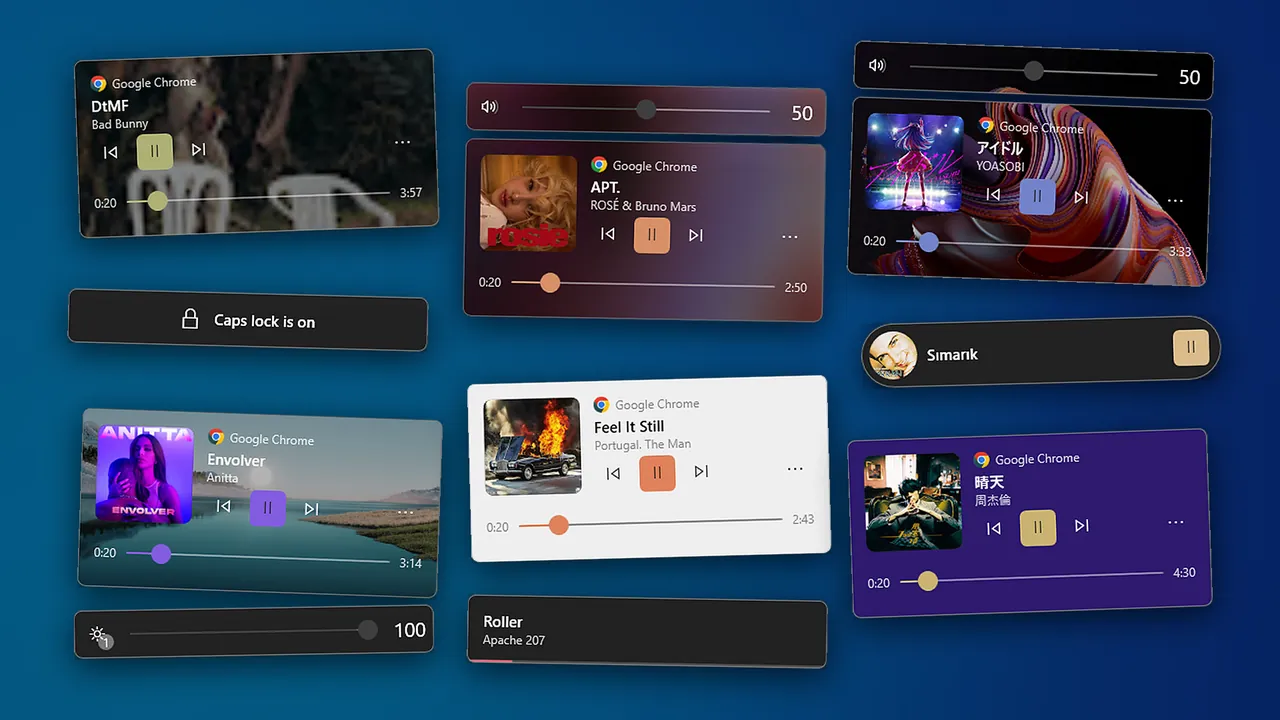
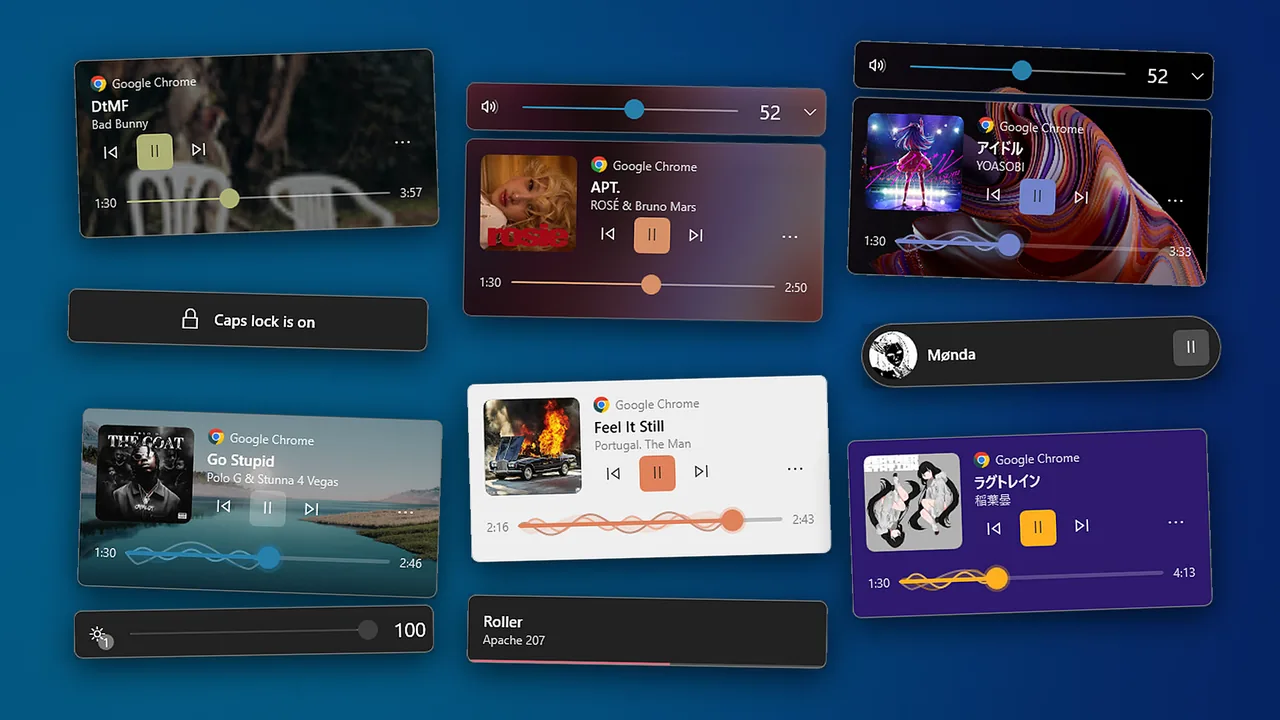
0.13

diff --git a/index.html b/index.html
@@ -47,6 +47,8 @@
           "acceptedAnswer": { "@type": "Answer", "text": "Flylet is a maintained continuation of ModernFlyouts, which was archived in 2025. It works on Windows 11 again and on Windows 10 22H2, with credit to the original ModernFlyouts authors." } },
         { "@type": "Question", "name": "Can I put my own picture behind the volume pop-up?",
           "acceptedAnswer": { "@type": "Answer", "text": "Yes. Use any photo or animated GIF, adjust it to fit, and add blur or darkening so the text stays readable." } },
+        { "@type": "Question", "name": "Can I change the volume of each app?",
+          "acceptedAnswer": { "@type": "Answer", "text": "Yes. An arrow on the volume row opens a slider for every app that's playing sound, and a click on an app's icon mutes it." } },
         { "@type": "Question", "name": "Does it work on Windows 10?",
           "acceptedAnswer": { "@type": "Answer", "text": "Yes, Windows 10 version 22H2 and Windows 11, on 64-bit and 32-bit PCs." } },
         { "@type": "Question", "name": "Which music apps work?",
@@ -85,7 +87,7 @@
       <a class="btn" href="https://github.com/ItsMrZxD/Flylet">View on GitHub</a>
     </div>
     <p class="winget">Or: <code>winget install 9NPSS6NW7T23 --source msstore</code> <span class="pill">Free · no ads</span></p>
-    <img class="shot heroimg" src="img/hero.webp" width="1280" height="720" alt="Flylet pop-ups in many styles: volume bar, media cards with album art, a pill, a brightness bar and a Caps Lock notice">
+    <img class="shot heroimg" src="img/hero.webp" width="1280" height="720" alt="Flylet pop-ups in many styles: volume bars, media cards with album art and music visualizer waves, a pill, a brightness bar and a Caps Lock notice">
     </div>
   </section>
 
@@ -95,9 +97,11 @@
     <h2 id="features">Features</h2>
     <ul class="features">
       <li><strong>Real media controls</strong><span>Album art, title, artist, play/pause, previous/next, and a timeline you can drag that keeps moving while music plays. Every player that reports to Windows gets its own card.</span></li>
+      <li><strong>Volume mixer</strong><span>An arrow on the volume row opens a slider for every app that's playing sound. Click an app's icon to mute it.</span></li>
+      <li><strong>Music visualizer</strong><span>Turn the media timeline into waves that move with your music. Pick Subtle, Lively or Party, or make your own.</span></li>
       <li><strong>Your own picture</strong><span>Put a photo or animated GIF behind the pop-ups, then move, zoom, rotate, blur or darken it. Add several and get a new one each time a pop-up opens.</span></li>
       <li><strong>Glass</strong><span>Blurs whatever is behind your pop-ups, like frosted glass (Windows 11).</span></li>
-      <li><strong>Your colors</strong><span>Follow your Windows accent color, or pick your own accent and background.</span></li>
+      <li><strong>Your colors</strong><span>Follow your Windows accent color, or pick your own accent and background with a color picker that saves your favorites.</span></li>
       <li><strong>Media card styles</strong><span>Classic, Minimal, Compact pill, Album background, or mix your own.</span></li>
       <li><strong>More than volume</strong><span>Brightness (laptop screens and external monitors), Caps Lock, Num Lock and airplane mode.</span></li>
       <li><strong>Light</strong><span>Almost no CPU when idle, an optional "Use less memory" switch, and it runs on 64-bit and 32-bit PCs.</span></li>
@@ -130,6 +134,10 @@
     <details>
       <summary>Can I put my own picture behind the volume pop-up?</summary>
       <p>Yes. Use any photo or animated GIF, adjust it to fit, and add blur or darkening so the text stays readable.</p>
+    </details>
+    <details>
+      <summary>Can I change the volume of each app?</summary>
+      <p>Yes. An arrow on the volume row opens a slider for every app that's playing sound, and a click on an app's icon mutes it.</p>
     </details>
     <details>
       <summary>Does it work on Windows 10?</summary>

diff --git a/changelog/index.html b/changelog/index.html
@@ -35,7 +35,19 @@
   </div>
   <div class="wrap releases">
     <section class="release">
-      <h2>0.12.1 · November 13, 2026 <span class="pill">Latest</span></h2>
+      <h2>0.13 · November 19, 2026 <span class="pill">Latest</span></h2>
+      <ul>
+        <li>New volume mixer: an arrow on the volume row opens a slider for every app playing sound. Click an app's icon to mute it.</li>
+        <li>New music visualizer: choose "Music visualizer" as the media card's timeline and it moves with your music. Pick Subtle, Lively or Party, or make your own.</li>
+        <li>New pin button keeps the pop-up on screen.</li>
+        <li>Redesigned color picker with 8 swatches, 4 slots for your own colors and a hex code.</li>
+        <li>New switches to hide the card border and to add a glassy shine to the cards.</li>
+        <li>Firefox's media timeline no longer goes missing.</li>
+        <li>Fixed a crash when a media app closed at the wrong moment.</li>
+      </ul>
+    </section>
+    <section class="release">
+      <h2>0.12.1 · November 13, 2026</h2>
       <ul>
         <li>The custom accent color now also applies to the media card.</li>
         <li>Pictures you've already added are skipped, so no duplicates.</li>
